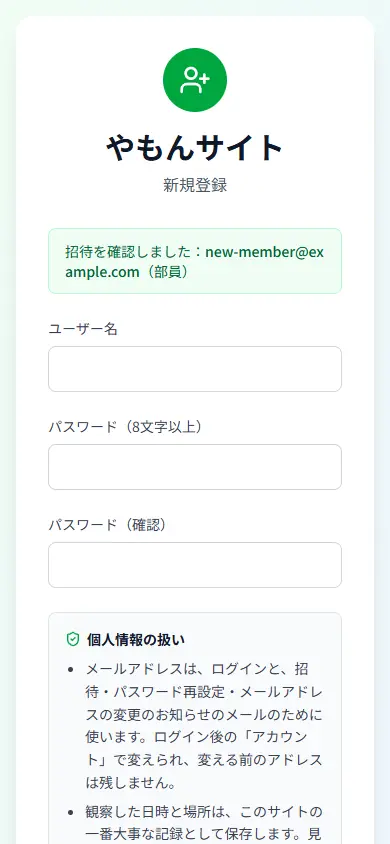
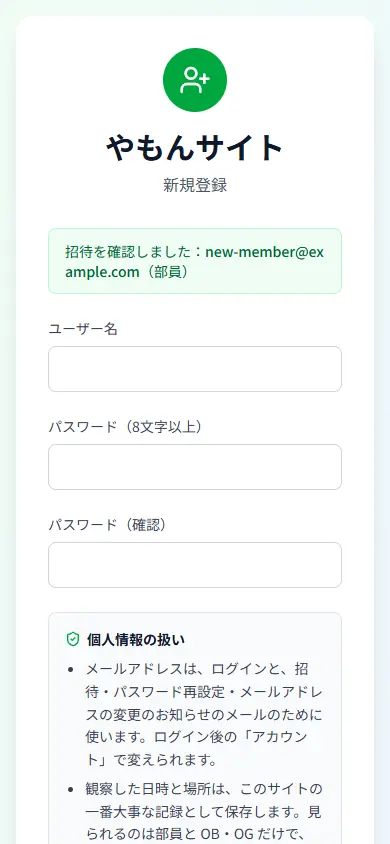
fix: レビューの指摘に対応する (#84)
- 退会処理などの管理者の操作でも対象の行をロックし、メールアドレスの変更と重なっても古いアドレスで判断しない
- PostgreSQL のエラーコードの判定を hasPgErrorCode にまとめ、一意の制約の違反のテストを足す
- 登録画面の個人情報の文から「変える前のアドレスは残さない」を外す（ログインの失敗の記録・バックアップには残るため）
- D54：通知は新しいアドレスにだけ届くので、他人による変更には気づけないことを書き直す

Changed region(s): [[0.2154, 0.8934, 0.8308, 1.0]]

diff --git a/apps/api/src/routes/account.ts b/apps/api/src/routes/account.ts
@@ -1,4 +1,4 @@
-import { emailChangeInputSchema, type EmailChangeResponse } from '@yamon/shared';
+import { emailChangeInputSchema, type EmailChangeResponse, type SessionUser } from '@yamon/shared';
 import { and, count, eq, gt, isNull, lte, ne, sql } from 'drizzle-orm';
 import { Hono } from 'hono';
 import { HTTPException } from 'hono/http-exception';
@@ -8,6 +8,7 @@ import { sha256 } from '../auth/session';
 import { schema } from '../db/client';
 import { errorBody } from '../errors';
 import { trySend } from '../mail';
+import { isUniqueViolation } from '../observations/view';
 import { validate } from '../validator';
 import { LOGIN_FAILURE_WINDOW_MS, MAX_LOGIN_FAILURES } from './auth';
 
@@ -20,14 +21,6 @@ const { users, invitations, auditLogs, loginFailures } = schema;
 const passwordCheckKey = (userId: string) => sha256(`email-change:${userId}`);
 
 const DUPLICATE = 'このメールアドレスはほかのユーザーが使っています。別のアドレスを入力してください';
-
-/** 一意の制約（users_email_unique）に引っかかったか。同時に同じアドレスへ変えられたときに起こる */
-function isUniqueViolation(err: unknown): boolean {
-  for (let e = err; e && typeof e === 'object'; e = (e as { cause?: unknown }).cause) {
-    if ((e as { code?: unknown }).code === '23505') return true;
-  }
-  return false;
-}
 
 function emailChangedMail(to: string) {
   return {
@@ -82,9 +75,9 @@ export const accountRoutes = new Hono<AuthedEnv>()
       throw new HTTPException(400, { message: '今と同じメールアドレスです' });
     }
 
-    let updated: { id: string; name: string; email: string | null; role: (typeof users.$inferSelect)['role'] };
+    let user: SessionUser;
     try {
-      updated = await db.transaction(async (tx) => {
+      user = await db.transaction(async (tx) => {
         // 自分の行をロックして読み直す（退会・無効化の操作と重なっても、古い状態で変えない）
         const [target] = await tx.select().from(users).where(eq(users.id, me.id)).limit(1).for('update');
         if (!target || target.status !== 'active' || !target.email) {
@@ -103,7 +96,7 @@ export const accountRoutes = new Hono<AuthedEnv>()
           .update(users)
           .set({ email })
           .where(eq(users.id, me.id))
-          .returning({ id: users.id, name: users.name, email: users.email, role: users.role });
+          .returning({ id: users.id, name: users.name, role: users.role });
         // 古いアドレスの招待は消す。古いアドレスが空くので、残っている招待で別の人が登録できないようにし、
         // 退会処理（今のアドレスの招待を消す、D26）で古いアドレスが残らないようにする
         await tx.delete(invitations).where(sql`lower(${invitations.email}) = lower(${target.email})`);
@@ -114,18 +107,15 @@ export const accountRoutes = new Hono<AuthedEnv>()
           .where(and(sql`lower(${invitations.email}) = ${email}`, isNull(invitations.usedAt), isNull(invitations.revokedAt)));
         // 誰が・いつ・誰のアドレスを変えたかだけ残し、アドレスの値は残さない（個人情報を増やさない、D54）
         await tx.insert(auditLogs).values({ actorId: me.id, targetUserId: me.id, action: 'email_changed' });
-        return row;
+        return { ...row, email };
       });
     } catch (err) {
+      // 同時に同じアドレスへ変えられたとき、DB の一意の制約（users_email_unique）で片方が失敗する
       if (isUniqueViolation(err)) throw new HTTPException(409, { message: DUPLICATE });
       throw err;
     }
 
     // メールの設定があれば、新しいアドレスに通知する（確認のクリックは求めない。送れなくても変更は取り消さない、D54）
     const mailSent = await trySend(c.get('mailer'), emailChangedMail(email));
-    const body: EmailChangeResponse = {
-      user: { id: updated.id, name: updated.name, email: updated.email!, role: updated.role },
-      mailSent,
-    };
-    return c.json(body);
+    return c.json({ user, mailSent } satisfies EmailChangeResponse);
   });

diff --git a/apps/api/test/account.test.ts b/apps/api/test/account.test.ts
@@ -3,6 +3,7 @@ import { and, eq } from 'drizzle-orm';
 import { afterAll, beforeAll, beforeEach, describe, expect, it } from 'vitest';
 import { createApp } from '../src/app';
 import { schema } from '../src/db/client';
+import { isUniqueViolation } from '../src/observations/view';
 import { MAX_LOGIN_FAILURES } from '../src/routes/auth';
 import { callApi, createUser, jsonHeaders, login, setupTestApp, TEST_APP_URL, type TestContext } from './helpers';
 
@@ -88,6 +89,17 @@ describe('ログイン用のメールアドレスの変更（本人、#84）', (
     expect(results.map((r) => r.status).sort()).toEqual([200, 409]);
     const owners = await ctx.db.select().from(schema.users).where(eq(schema.users.email, 'race@example.com'));
     expect(owners).toHaveLength(1);
+  });
+
+  it('同時の変更で重複の確認をすり抜けたときの、一意の制約の違反を見分けられる（409 にする）', async () => {
+    // PGlite は接続が1つで、上のテストでは重複の確認で止まるため、制約の違反そのものをここで確かめる
+    await createUser(ctx.db, { email: 'unique-a@example.com' });
+    const b = await createUser(ctx.db);
+    const err = await ctx.db
+      .transaction((tx) => tx.update(schema.users).set({ email: 'Unique-A@example.com' }).where(eq(schema.users.id, b.id)))
+      .catch((e: unknown) => e);
+    expect(isUniqueViolation(err)).toBe(true);
+    expect(isUniqueViolation(new Error('other'))).toBe(false);
   });
 
   it('形式が正しくないアドレスは 400', async () => {

diff --git a/apps/api/src/observations/view.ts b/apps/api/src/observations/view.ts
@@ -95,12 +95,18 @@ export async function findMainLocation(db: Db, id: string, { activeOnly }: { act
   return loc;
 }
 
-/** PostgreSQL の外部キー違反（23503）か。ドライバーや drizzle が包んだ例外（cause）もたどる */
-export function isForeignKeyViolation(err: unknown): boolean {
+/** PostgreSQL のエラーコードか。ドライバーや drizzle が包んだ例外（cause）もたどる */
+export function hasPgErrorCode(err: unknown, code: string): boolean {
   for (let e = err; e && typeof e === 'object'; e = (e as { cause?: unknown }).cause) {
-    if ((e as { code?: unknown }).code === '23503') return true;
+    if ((e as { code?: unknown }).code === code) return true;
   }
   return false;
 }
+
+/** 外部キー違反（23503） */
+export const isForeignKeyViolation = (err: unknown) => hasPgErrorCode(err, '23503');
+
+/** 一意の制約の違反（23505） */
+export const isUniqueViolation = (err: unknown) => hasPgErrorCode(err, '23505');
 
 export const notFound = (what: string) => new HTTPException(404, { message: `${what}が見つかりません` });

diff --git a/apps/web/src/components/PrivacyNotice.tsx b/apps/web/src/components/PrivacyNotice.tsx
@@ -7,7 +7,7 @@ import { Link } from 'react-router';
  * 内容を変えるときは docs/MVP.md の4章も合わせて直す
  */
 export const PRIVACY_ITEMS = [
-  'メールアドレスは、ログインと、招待・パスワード再設定・メールアドレスの変更のお知らせのメールのために使います。ログイン後の「アカウント」で変えられ、変える前のアドレスは残しません。',
+  'メールアドレスは、ログインと、招待・パスワード再設定・メールアドレスの変更のお知らせのメールのために使います。ログイン後の「アカウント」で変えられます。',
   '観察した日時と場所は、このサイトの一番大事な記録として保存します。見られるのは部員と OB・OG だけで、それ以外の人には公開しません。',
   '退会すると、名前とメールアドレスは削除されます。観察記録はサークルの記録として残り、記録者は「退会済みユーザー」と表示されます。',
 ] as const;

diff --git a/apps/api/src/routes/admin.ts b/apps/api/src/routes/admin.ts
@@ -69,7 +69,9 @@ async function withUserLocked<T>(
     if (!current || current.status !== 'active' || !can(current.role, 'users.manage')) {
       throw new HTTPException(403, { message: 'この操作をする権限がありません' });
     }
-    const [target] = await tx.select().from(users).where(eq(users.id, userId)).limit(1);
+    // 対象の行もロックする。本人によるメールアドレスの変更（D54）と重なっても、古いアドレスで判断しない
+    // （例：退会処理が古いアドレスの招待だけを消し、新しいアドレスの招待が残る）
+    const [target] = await tx.select().from(users).where(eq(users.id, userId)).limit(1).for('update');
     if (!target) throw notFound();
     if (protection && !(protection.allowSelf && target.id === actor.id)) assertNotProtected(protection.ids, target);
     return fn(tx, target);

diff --git a/docs/DECISIONS.md b/docs/DECISIONS.md
@@ -979,8 +979,8 @@ D28（Protomaps を R2 から配信）を実装するときに決めた細部。
 - **背景（2026-11-10、#84）**：卒業すると大学のメールアドレスが使えなくなる。アドレスはログインの ID として使うだけで、メールが届かなくてもログインはできる（再設定リンクも管理者が発行する、D46）。ただ、もう存在しないアドレスがログイン ID のまま残り、本人が忘れやすい。新しいアドレスで招待し直すと別の人として登録され、昔の記録が付かず、「自分の記録は正確な位置が見られる」（D52）も効かない。そこで、記録や役割を保ったままアドレスを移せるようにする（ユーザーが案 B を選んだ）。
 - **決定（2026-11-11 ユーザー決定）**
   - **誰が変えるか：本人だけ**。新しい画面「アカウント」（`/account`、ホームのヘッダーの「アカウント」）で、新しいアドレスを2回と今のパスワードを入れる。API は `PATCH /api/account/email`（ログインしていれば、どの役割でも使える。OB・OG が主な利用者）。管理者が他人のアドレスを変える API は作らない。
-  - **形式と重複**：形式・前後の空白・小文字へのそろえ方は登録と同じ `emailSchema`（D30）。ほかのユーザーとは大文字・小文字を区別せずに比べ、同じなら 409。確かめてから書き換えるまでの間に別の人が同じアドレスへ変えても、DB の一意の制約（`users_email_unique`）で片方だけが通る。今と同じアドレスは 400。
-  - **状態**：自分の行を `for update` でロックして読み直し、通常の状態のときだけ変える。無効化・退会したユーザーはセッションが使えない（401）ので、そもそも届かない。
+  - **形式と重複**：形式・前後の空白・小文字へのそろえ方は登録と同じ `emailSchema`（D30）。ほかのユーザーとは大文字・小文字を区別せずに比べ、同じなら 409。確かめてから書き換えるまでの間に別の人が同じアドレスへ変えても、DB の一意の制約（`users_email_unique`）で片方だけが通る（もう片方は 409）。今と同じアドレスは 400。
+  - **状態**：自分の行を `for update` でロックして読み直し、通常の状態のときだけ変える。管理者の操作（`withUserLocked`）も対象の行をロックするので、退会処理と重なっても古いアドレスで判断しない。無効化・退会したユーザーはセッションが使えない（401）ので、そもそも届かない。
   - **今のパスワード**：違えば 400（`invalid_password`）。ログインしたままの端末でパスワードを総当たりされないよう、ログインと同じ回数制限（15分に5回、D33）を、ユーザー ID に印を付けたキーで数える。
   - **確認のメール：送らない（設定があれば通知だけ）**。変更はすぐに反映する。メールの設定（D46）がある環境では、新しいアドレスに「変更しました」とだけ送る（クリックは求めない。送れなくても変更は取り消さない。応答の `mailSent` で画面に伝える）。打ち間違いは、画面で2回入れてもらって防ぐ。
   - **セッション：消さない**。パスワードは変わらないので、今の端末もほかの端末もそのまま使える（パスワード再設定、D41 とは扱いを変える）。
@@ -990,19 +990,20 @@ D28（Protomaps を R2 から配信）を実装するときに決めた細部。
   - **変わらないもの**：ユーザー ID、名前、役割、パスワード、記録・観察会。
 - **採用理由**
   - 他人のアドレスを変えられると、そのアドレスと再設定リンクでその人になりすませる。本人だけにすれば、管理者によるなりすましの手段が増えず、保守担当の保護（D51）の対象に足す必要もない。
-  - アドレスはログイン ID として使うだけで、届かなくてよい（D46）。確認のメールを必須にすると、保留中のアドレスとトークンを持つ表が要り、メールの設定がない今の本番では結局確認なしになる。通知だけなら、設定がある環境で心当たりのない変更に気づける。
+  - アドレスはログイン ID として使うだけで、届かなくてよい（D46）。確認のメールを必須にすると、保留中のアドレスとトークンを持つ表が要り、メールの設定がない今の本番では結局確認なしになる。通知だけなら、設定がある環境で、新しいアドレスにメールが届くこと（打ち間違えていないこと）を本人が確かめられる。
   - パスワードが変わらないので、ほかの端末のセッションを消しても守れるものが少ない（セッションを盗まれていれば、アドレスを変える前に同じことができる）。ログインし直しの手間を増やさない。
   - 履歴にアドレスの値を残すと、個人情報が増え、退会処理（D26）で履歴の値も消す処理が要る。今のアドレスはユーザー一覧で見られる。
 - **比較した案**
   - **本人と管理者の両方**：パスワードを忘れた OB・OG も、管理者に頼めば変えられる。ただし管理者が他人のアドレスを変えてなりすませるようになり、保守担当の保護（D51）の対象にも足す必要がある。今回は、パスワードを忘れた人は先に再設定リンク（D46）をもらってから自分で変える、の2段階で足りるとした。
   - **管理者だけ**：画面は管理者画面の行にボタンを足すだけで一番小さい。卒業のたびに管理者の手間が増え、なりすましの手段も増える。
   - **設定があれば確認を必須にする**：打ち間違いを確実に防げる。表とトークンが要り大きくなり、設定のない本番では効かない。
-  - **確認も通知も送らない**：一番小さい。設定がある環境でも、心当たりのない変更に気づけない。
+  - **確認も通知も送らない**：一番小さい。設定がある環境でも、打ち間違いにメールで気づけない。
+  - **古いアドレスにも通知する**：他人に変えられたとき、元の持ち主が気づける。ただし卒業した人の古いアドレスは届かないことが多い。今回は新しいアドレスだけにした（ユーザーの選択）。
   - **ほかの端末のセッションを消す**：パスワード再設定と同じ扱いで分かりやすいが、上のとおり守れるものが少なく、手間が増える。
   - **履歴に変更前と変更後のアドレスを残す**：なりすましの調べがしやすい。個人情報が増え、退会処理で履歴の値も消す処理が要る。
   - **新しいアドレスで招待し直す（今までの運用）**：別の人になり、記録が付かない（背景）。
 - **弱くなること**
   - 打ち間違えたアドレスに変えると、本人はそのアドレスでしかログインできない（正しいアドレスに直すには、打ち間違えたアドレスでログインして変え直す）。画面で2回入れてもらい、変えた後に表示する。
   - パスワードを忘れた人は、先に管理者に再設定リンク（D46）をもらってから変える。
-  - ログインしたままの端末を他人に使われると、その人がパスワードを知っていればアドレスを変えられる（パスワードを知っていれば、もともとログインできる）。
+  - ログインしたままの端末を他人に使われると、その人がパスワードを知っていればアドレスを変えられる（パスワードを知っていれば、もともとログインできる）。通知は新しいアドレス（変えた人のアドレス）にだけ届くので、元の持ち主には知らせが届かない。気づくのは、元のアドレスでログインできなくなったときか、管理者が操作履歴を見たとき。
 - **再検討する条件**：パスワードもアドレスも分からなくなった OB・OG からの相談が多いとき（管理者が変えられるようにする。そのときは保守担当の保護と操作履歴の扱いを決める）。「Google でログイン」（D46 の再検討する条件）に移るとき。

diff --git a/docs/MVP.md b/docs/MVP.md
@@ -129,7 +129,7 @@
 
 登録画面に次の内容を表示する。
 
-- メールアドレスは、ログインのために使う（メールの設定がある環境では、招待・パスワード再設定・メールアドレスの変更の通知にも使う）。本人が「アカウント」で変えられる。変える前のアドレスは残さない
+- メールアドレスは、ログインのために使う（メールの設定がある環境では、招待・パスワード再設定・メールアドレスの変更の通知にも使う）。本人が「アカウント」で変えられる
 - 観察した日時と場所は、このサイトの一番大事な記録として保存する。見られるのは部員と OB・OG だけで、それ以外の人には公開しない
 - 退会すると、名前とメールアドレスは削除される。観察記録はサークルの記録として残り、記録者は「退会済みユーザー」と表示される
 
